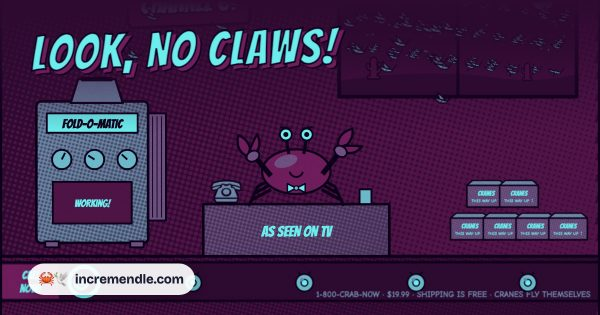
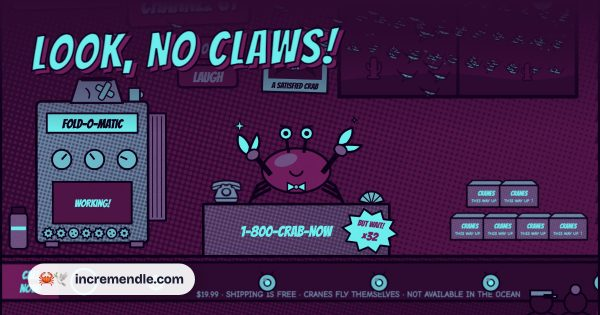
Look, No Claws!: draw every purchase on the set

diff --git a/public/look-no-claws/index.html b/public/look-no-claws/index.html
@@ -10,7 +10,7 @@
 <meta property="og:title" content="Look, No Claws!">
 <meta property="og:description" content="3 a.m. on Channel 61. A homesick crab herds runaway paper cranes on the beat of the gamelan band, live, to win the station van and drive to the sea.">
 <meta property="og:url" content="https://incremendle.com/look-no-claws/">
-<meta property="og:image" content="https://incremendle.com/look-no-claws/og.png?v=46c6cc61">
+<meta property="og:image" content="https://incremendle.com/look-no-claws/og.png?v=a449f050">
 <meta property="og:image:width" content="1200">
 <meta property="og:image:height" content="630">
 <meta property="og:image:alt" content="Look, No Claws!: 3 a.m. on Channel 61. A homesick crab herds runaway paper cranes on the beat of the gamelan band, live, to win the station van and drive to the sea.">
@@ -379,19 +379,26 @@ function drawBackground() {
   inked(x, C.c7, () => x.rect(-4, LANE_Y - 26, W + 8, 52), 3);
   x.fillStyle = C.c5; x.fillRect(0, LANE_Y - 23, 76, 46);
   x.font = '400 16px Bangers, Impact, sans-serif'; x.fillStyle = C.c1; x.textAlign = 'center'; x.fillText('CALL', 38, LANE_Y - 3); x.fillText('NOW!', 38, LANE_Y + 15);
-  x.font = '700 11px Comic Neue, sans-serif'; x.fillStyle = C.c3; x.textAlign = 'right'; x.fillText('1-800-CRAB-NOW · $19.99 · SHIPPING IS FREE · CRANES FLY THEMSELVES', W - 10, LANE_Y + 21);
+  x.font = '700 11px Comic Neue, sans-serif'; x.fillStyle = C.c3; x.textAlign = 'right'; x.fillText('$19.99 · SHIPPING IS FREE · CRANES FLY THEMSELVES · NOT AVAILABLE IN THE OCEAN', W - 104, LANE_Y + 21);
   return c;
 }
 
 // Pinchworth: berry shell, eyes on stalks, a bow tie, two claws. `snap` 0..1 closes the right claw.
-function drawCrab(x, snap, t, look = 0) {
+function drawCrab(x, snap, t, look = 0, mo = false) {
   x.save(); x.lineJoin = 'round';
+  const dress = !mo;
   // Legs.
   for (const s of [-1, 1]) for (let i = 0; i < 3; i++) S_(x, () => { x.moveTo(s * 34, -18 + i * 7); x.lineTo(s * (52 + i * 4), -8 + i * 9); x.lineTo(s * (58 + i * 3), 6 + i * 6); }, 4);
   // Shell.
   inked(x, C.c5, () => x.ellipse(0, -28, 46, 30, 0, 0, Math.PI * 2));
   dots(x, () => x.ellipse(0, -28, 46, 30, 0, 0, Math.PI * 2), C.ink, 0.45, 4);
   x.fillStyle = C.c4; P(x, () => x.ellipse(-14, -42, 16, 8, -0.3, 0, Math.PI * 2));
+  // The Unbreakable Streak: a champion's sash.
+  if (dress && gift('bigstreak')) {
+    x.save(); x.beginPath(); x.ellipse(0, -28, 46, 30, 0, 0, Math.PI * 2); x.clip();
+    S_(x, () => { x.moveTo(-40, -54); x.lineTo(44, -6); }, 13); x.beginPath(); x.moveTo(-40, -54); x.lineTo(44, -6); x.lineWidth = 8; x.strokeStyle = C.c1; x.stroke();
+    x.restore(); star(x, 20, -20, 7, C.c2);
+  }
   // Bow tie (he's the host).
   inked(x, C.c1, () => { x.moveTo(0, -6); x.lineTo(-12, -12); x.lineTo(-12, 0); x.closePath(); x.moveTo(0, -6); x.lineTo(12, -12); x.lineTo(12, 0); x.closePath(); }, 2);
   inked(x, C.c2, () => x.arc(0, -6, 3, 0, Math.PI * 2), 1.5);
@@ -404,19 +411,40 @@ function drawCrab(x, snap, t, look = 0) {
   // A small smile; homesick eyebrows.
   S_(x, () => { x.arc(0, -30, 9, 0.25, Math.PI - 0.25); }, 2.5);
   S_(x, () => { x.moveTo(-22, -88); x.lineTo(-8, -86); x.moveTo(22, -88); x.lineTo(8, -86); }, 2.5);
+  // Testimonials: it's Pinchworth in a moustache.
+  if (mo) inked(x, C.ink, () => { x.moveTo(0, -24); x.quadraticCurveTo(-10, -32, -22, -20); x.quadraticCurveTo(-12, -22, 0, -18); x.quadraticCurveTo(12, -22, 22, -20); x.quadraticCurveTo(10, -32, 0, -24); }, 1);
+  // Metronome Hat: a tiny metronome on a tiny hat, ticking with the band.
+  if (dress && gift('hat')) {
+    inked(x, C.c7, () => x.ellipse(0, -58, 15, 4, 0, 0, Math.PI * 2), 2);
+    inked(x, C.c7, () => x.rect(-8, -72, 16, 13), 2);
+    inked(x, C.c2, () => { x.moveTo(-6, -72); x.lineTo(-3, -90); x.lineTo(3, -90); x.lineTo(6, -72); x.closePath(); }, 2);
+    const sw = Math.sin(beatNow() * Math.PI) * 0.6;
+    S_(x, () => { x.moveTo(0, -73); x.lineTo(Math.sin(sw) * 16, -73 - Math.cos(sw) * 16); }, 2);
+  }
   // Claws: the left one raised, holding a cue card; the right one does the clicking.
-  claw(x, -62, -56, -0.5, 0.15, t);
-  claw(x, 64, -62, 0.6, snap, t);
+  const shell = dress && gift('goldclaws') ? C.c1 : C.c5;
+  claw(x, -62, -56, -0.5, 0.15, t, shell);
+  claw(x, 64, -62, 0.6, snap, t, shell);
+  // Claw Polish: the more coats, the bigger the twinkle.
+  if (dress && (S.lv.polish || shell !== C.c5)) {
+    const lv = S.lv.polish + (shell !== C.c5 ? 6 : 0), tw = 0.6 + 0.4 * Math.sin(t * 5);
+    star(x, 78, -96, (3 + Math.min(lv, 16) * 0.5) * tw, C.c1);
+    if (lv >= 8) star(x, -76, -88, (2 + Math.min(lv, 16) * 0.3) * (1.6 - tw), C.c1);
+  }
   x.restore();
 }
-function claw(x, cx, cy, rot, snap, t) {
+// A four-point twinkle.
+function star(x, cx, cy, r, color) {
+  inked(x, color, () => { for (let i = 0; i < 8; i++) { const a = i / 8 * Math.PI * 2, q = i % 2 ? r * 0.3 : r; x.lineTo(cx + Math.cos(a) * q, cy + Math.sin(a) * q); } x.closePath(); }, 1.5);
+}
+function claw(x, cx, cy, rot, snap, t, shell = C.c5) {
   x.save();
   S_(x, () => { x.moveTo(cx * 0.55, cy * 0.4); x.lineTo(cx * 0.85, cy * 0.8); x.lineTo(cx, cy); }, 7);
   x.translate(cx, cy); x.rotate(rot);
   const open = 0.55 * (1 - snap);
-  inked(x, C.c5, () => { x.moveTo(-6, 6); x.quadraticCurveTo(-18, -10, -4, -26); x.quadraticCurveTo(4, -18, 2, -4); x.closePath(); });
+  inked(x, shell, () => { x.moveTo(-6, 6); x.quadraticCurveTo(-18, -10, -4, -26); x.quadraticCurveTo(4, -18, 2, -4); x.closePath(); });
   x.save(); x.rotate(open);
-  inked(x, C.c5, () => { x.moveTo(4, 6); x.quadraticCurveTo(18, -6, 10, -22); x.quadraticCurveTo(4, -12, 0, -2); x.closePath(); });
+  inked(x, shell, () => { x.moveTo(4, 6); x.quadraticCurveTo(18, -6, 10, -22); x.quadraticCurveTo(4, -12, 0, -2); x.closePath(); });
   x.restore();
   inked(x, C.c4, () => x.ellipse(0, 8, 9, 7, 0, 0, Math.PI * 2), 2.5);
   x.restore();
@@ -446,9 +474,172 @@ function drawMachine(x, t, open = 0) {
   }
   inked(x, C.c6, () => x.rect(mx + 22, my + 132, w - 64, 56), 2.5);
   x.fillStyle = S.up.maint ? C.c1 : C.c4; x.font = '400 14px Bangers, Impact, sans-serif'; x.fillText(S.up.maint ? 'WORKING!' : 'OUT OF ORDER', mx + (w - 20) / 2, my + 166);
+  // Spare Parts: a row of gears along the bottom, every third one a biscuit.
+  for (let i = 0; i < S.lv.parts; i++) {
+    const gx = mx + 16 + i * 17, gy = my + h - 13;
+    if (i % 3 === 2) { inked(x, C.c2, () => x.arc(gx, gy, 7, 0, Math.PI * 2), 2); x.fillStyle = C.ink; for (const [a, b] of [[-2, -2], [3, 0], [-1, 3]]) P(x, () => x.arc(gx + a, gy + b, 1.1, 0, Math.PI * 2)); continue; }
+    const r0 = (S.up.maint ? t * 2 : 0) * (i % 2 ? 1 : -1);
+    inked(x, C.c2, () => { for (let j = 0; j < 16; j++) { const a = r0 + j / 16 * Math.PI * 2, q = j % 2 ? 5.5 : 8; x.lineTo(gx + Math.cos(a) * q, gy + Math.sin(a) * q); } x.closePath(); }, 2);
+    x.fillStyle = C.ink; P(x, () => x.arc(gx, gy, 2, 0, Math.PI * 2));
+  }
+  // Kick the Machine: a dent in the chute, and a plaster on it.
+  if (S.up.kick) {
+    S_(x, () => { x.moveTo(mx + 66, my + 6); x.quadraticCurveTo(mx + 74, my + 12, mx + 70, my + 20); }, 2);
+    x.save(); x.translate(mx + 92, my + 10); x.rotate(0.5);
+    for (const r of [0, Math.PI / 2]) { x.save(); x.rotate(r); inked(x, C.c2, () => x.roundRect(-13, -4, 26, 8, 3), 1.8); x.restore(); }
+    x.restore();
+  }
   // Little feet.
   for (const fx of [mx + 12, mx + w - 44]) inked(x, C.c4, () => x.rect(fx, my + h - 2, 18, 8), 2.5);
   x.restore();
+}
+// Everything else the shop sells, drawn where it went. back: the wall; machine: on and around
+// the Fold-O-Matic; desk: on the desk; front: in front of the set.
+const gift = g => E.DEMO_IDS.some(d => S.gifts[d] === g);
+const cue = { oooh: -9, laugh: -9 };
+function drawProps(x, layer) {
+  const t = clock, up = S.up;
+  const label = (text, px, py, size, color = C.ink, font = 'Bangers, Impact, sans-serif') => { x.font = `400 ${size}px ${font}`; x.textAlign = 'center'; x.fillStyle = color; x.fillText(text, px, py); };
+  if (layer === 'back') {
+    // Act Now!: the clock that's been counting down from ten minutes for three hours.
+    if (up.actnow) {
+      x.save(); x.translate(86, 46); x.rotate(-0.03);
+      inked(x, C.c5, () => x.roundRect(-74, -26, 148, 52, 6), 3);
+      label('ACT NOW! OFFER ENDS IN', 0, -7, 13, C.c2);
+      const s = 600 - Math.floor(t % 47);
+      label(`${Math.floor(s / 60)}:${String(s % 60).padStart(2, '0')}`, 0, 18, 24, C.c1);
+      x.restore();
+    }
+    // Warranty Card, pinned up: signed W.
+    if (up.warranty) {
+      x.save(); x.translate(48, 120); x.rotate(0.07);
+      inked(x, C.c1, () => x.rect(-32, -22, 64, 44), 2.5);
+      label('WARRANTY', 0, -6, 12);
+      label('Signed, W.', 0, 13, 13, C.c5, 'Comic Neue, sans-serif');
+      x.fillStyle = C.c5; P(x, () => x.arc(0, -22, 3.5, 0, Math.PI * 2));
+      x.restore();
+    }
+    // Night Shift Overtime: a punch clock, with Wanda's card in it.
+    if (gift('overtime')) {
+      x.save(); x.translate(124, 126);
+      inked(x, C.c2, () => x.rect(-9, -38, 18, 22), 2); label('W', 0, -24, 11);
+      inked(x, C.c3, () => x.roundRect(-20, -22, 40, 46, 4), 2.5);
+      inked(x, C.c1, () => x.arc(0, -2, 11, 0, Math.PI * 2), 2);
+      S_(x, () => { x.moveTo(0, -2); x.lineTo(Math.cos(t / 6) * 7, -2 + Math.sin(t / 6) * 7); x.moveTo(0, -2); x.lineTo(Math.cos(t) * 9, -2 + Math.sin(t) * 9); }, 1.5);
+      label('OT', 0, 20, 9, C.c1);
+      x.restore();
+    }
+    // Studio Audience and Laugh Track: cue lights that light up when they go off.
+    const cueLight = (y, text, lit) => {
+      x.save(); x.translate(276, y);
+      inked(x, lit ? C.c1 : C.c6, () => x.roundRect(-40, -15, 80, 30, 6), 3);
+      label(text, 0, 8, 19, lit ? C.c5 : C.c3);
+      x.restore();
+    };
+    if (up.audience) cueLight(124, 'OOOH', t - cue.oooh < 0.4);
+    if (up.laugh) cueLight(162, 'LAUGH', t - cue.laugh < 0.3);
+    // Testimonials: a framed photo of a satisfied crab.
+    if (up.testimony) {
+      x.save(); x.translate(394, 142); x.rotate(0.03);
+      inked(x, C.c2, () => x.rect(-44, -42, 88, 84), 3);
+      x.fillStyle = C.c7; x.fillRect(-36, -34, 72, 58);
+      x.save(); x.beginPath(); x.rect(-36, -34, 72, 58); x.clip(); x.translate(0, 12); x.scale(0.42, 0.42); drawCrab(x, 0.2, 0, 0, true); x.restore();
+      label('A SATISFIED CRAB', 0, 37, 11);
+      x.restore();
+    }
+    // The Big Spotlight.
+    if (gift('spotlight')) {
+      x.save(); x.globalAlpha = 0.17; x.fillStyle = C.c1;
+      x.beginPath(); x.moveTo(372, 0); x.lineTo(418, 0); x.lineTo(500, 334); x.lineTo(290, 334); x.fill();
+      x.restore();
+      inked(x, C.c3, () => x.roundRect(374, -8, 42, 18, 4), 3);
+    }
+  } else if (layer === 'machine') {
+    const { x: mx, y: my, w, h } = MACH;
+    // Operators Standing By: a phone on the machine, its cord running down the chute.
+    if (up.operators && ART.phone) {
+      S_(x, () => { x.moveTo(mx + 26, my + 18); x.bezierCurveTo(mx + 30, my + 34, mx + 60, my + 2, mx + 72, my - 4); }, 2.5);
+      x.drawImage(ART.phone, mx + 4, my - 4, 34, 34);
+    }
+    // Second Coffee Mug: left by the curtain. Now and then it empties itself.
+    if (up.mug) {
+      const ph = t % 14, mgx = mx + w - 46, mgy = my + 6;
+      if (ph > 10 && ph < 11.6) {
+        x.save(); x.lineCap = 'round';
+        x.beginPath(); x.moveTo(mx + w - 8, my + 46); x.quadraticCurveTo(mx + w + 4, my + 4, mgx + 16, mgy + 4);
+        x.lineWidth = 8; x.strokeStyle = C.ink; x.stroke(); x.lineWidth = 4.5; x.strokeStyle = C.c4; x.stroke(); x.restore();
+      }
+      inked(x, C.c2, () => x.arc(mgx + 15, mgy + 9, 5, -Math.PI / 2, Math.PI / 2), 2);
+      inked(x, C.c2, () => x.rect(mgx, mgy, 15, 18), 2.5);
+      if (ph < 10.4 && !reduced) for (const o of [4, 10]) S_(x, () => { x.moveTo(mgx + o, mgy - 3); x.quadraticCurveTo(mgx + o + 4 * Math.sin(t * 2 + o), mgy - 9, mgx + o, mgy - 16); }, 1.5);
+    }
+    // Tune the Machine: it hums along now, in tune.
+    if (up.hum && up.maint) for (let i = 0; i < 3; i++) {
+      const p = (t * 0.35 + i / 3) % 1, nx = mx + 150 + Math.sin(p * 6 + i) * 8, ny = my - 12 - p * 70;
+      x.save(); x.globalAlpha = 1 - p; x.font = '700 22px Comic Neue, sans-serif'; x.textAlign = 'center';
+      x.lineWidth = 4; x.strokeStyle = C.ink; x.strokeText('♪', nx, ny); x.fillStyle = C.c2; x.fillText('♪', nx, ny); x.restore();
+    }
+    // Wanda's Thermos, by the machine's foot.
+    if (gift('thermos')) {
+      inked(x, C.c4, () => x.roundRect(10, my + h - 40, 24, 48, 5), 2.5);
+      inked(x, C.c7, () => x.rect(13, my + h - 48, 18, 9), 2);
+      x.fillStyle = C.c1; x.fillRect(12, my + h - 22, 20, 5);
+    }
+    // Wanda's Radio, by the curtain, antenna up.
+    if (gift('radio')) {
+      S_(x, () => { x.moveTo(mx + w + 26, my + h - 10); x.lineTo(mx + w + 40, my + h - 40); }, 2);
+      inked(x, C.c3, () => x.roundRect(mx + w + 6, my + h - 12, 40, 24, 4), 2.5);
+      inked(x, C.c7, () => x.arc(mx + w + 18, my + h, 6, 0, Math.PI * 2), 2);
+      x.fillStyle = C.c1; x.fillRect(mx + w + 28, my + h - 6, 13, 4);
+    }
+    // Conveyor Belt: overhead, from the chute to the boxes.
+    if (gift('conveyor')) {
+      x.save(); x.lineJoin = 'round'; x.lineCap = 'round';
+      x.beginPath(); x.moveTo(mx + 104, my - 4); x.lineTo(mx + 124, my + 32); x.lineTo(586, my + 32); x.lineTo(606, 296);
+      x.lineWidth = 11; x.strokeStyle = C.ink; x.stroke(); x.lineWidth = 6; x.strokeStyle = C.c3; x.stroke();
+      if (!reduced) { x.setLineDash([3, 9]); x.lineDashOffset = -t * 40; }
+      x.lineWidth = 6; x.strokeStyle = C.c6; x.stroke(); x.setLineDash([]);
+      const fr = Math.floor(t * 4);
+      for (let i = 0; i < 6; i++) { const p = ((reduced ? 0 : t * 0.1) + i / 6) % 1; x.drawImage(ART.crane[(i + fr) % 2], mx + 124 + p * (586 - mx - 124) - 11, my + 14, 22, 16); }
+      x.restore();
+    }
+  } else if (layer === 'desk') {
+    // Seashell Phone, on the end of the desk.
+    if (up.seashell) {
+      x.save(); x.translate(DESK.x + DESK.w - 24, DESK.y);
+      inked(x, C.c2, () => { x.moveTo(0, 0); x.arc(0, 0, 17, Math.PI * 1.08, Math.PI * 1.92); x.closePath(); }, 2.5);
+      for (let i = 1; i < 5; i++) { const a = Math.PI * (1.08 + i * 0.168); S_(x, () => { x.moveTo(0, 0); x.lineTo(Math.cos(a) * 17, Math.sin(a) * 17); }, 1.5); }
+      x.restore();
+    }
+    // But Wait, There's More!: a sticker on the desk that keeps doubling.
+    if (S.lv.wait) {
+      x.save(); x.translate(DESK.x + DESK.w - 26, DESK.y + 36); x.rotate(0.12);
+      inked(x, C.c1, () => { for (let i = 0; i < 20; i++) { const a = i / 20 * Math.PI * 2, r = i % 2 ? 22 : 30; x.lineTo(Math.cos(a) * r * 1.25, Math.sin(a) * r); } x.closePath(); }, 2.5);
+      label('BUT WAIT!', 0, -5, 11, C.c5); label(`×${E.fmtShort(2 ** S.lv.wait)}`, 0, 13, 16, C.c5);
+      x.restore();
+    }
+  } else if (layer === 'front') {
+    // Not Available in Stores: stamped across the boxes.
+    if (up.stores) {
+      x.save(); x.translate(692, 384); x.rotate(-0.06);
+      inked(x, C.c5, () => x.rect(-98, -13, 196, 26), 3);
+      label('NOT AVAILABLE IN STORES', 0, 7, 17, C.c1);
+      x.restore();
+    }
+  } else if (layer === 'audience') {
+    // Studio Audience: the security guard and his mum, in the front row. Perfect taps get an "oooh".
+    if (up.audience) {
+      const lift = t - cue.oooh < 0.4 ? 4 : 0;
+      for (const [hx, cap] of [[724, true], [770, false]]) {
+        x.save(); x.translate(hx, 466 - lift);
+        inked(x, C.c7, () => x.ellipse(0, 30, 26, 18, 0, 0, Math.PI * 2), 2.5);
+        inked(x, C.c7, () => x.arc(0, 0, 15, 0, Math.PI * 2), 2.5);
+        if (cap) inked(x, C.c3, () => { x.rect(-15, -16, 30, 8); x.rect(4, -10, 17, 4); }, 2.5);
+        else inked(x, C.c4, () => x.arc(0, -17, 7, 0, Math.PI * 2), 2.5);
+        x.restore();
+      }
+    }
+  }
 }
 // Wanda from Maintenance: an octopus in a hairnet, eight arms, a crane in most of them.
 function drawWanda(x, t) {
@@ -495,14 +686,17 @@ function render() {
   x.save(); x.translate((rnd() - 0.5) * sh, (rnd() - 0.5) * sh);
   x.drawImage(bg, 0, 0, W, H);
   drawSky(x);
+  drawProps(x, 'back');
   drawMachine(x, clock);
+  drawProps(x, 'machine');
   // Desk, phone, the boxes.
   inked(x, C.c4, () => x.rect(DESK.x, DESK.y, DESK.w, DESK.h), 3.5);
   dots(x, () => x.rect(DESK.x, DESK.y, DESK.w, DESK.h), C.ink, 0.4, 5);
-  x.fillStyle = C.c1; x.font = '400 20px Bangers, Impact, sans-serif'; x.textAlign = 'center'; x.fillText('AS SEEN ON TV', DESK.x + DESK.w / 2, DESK.y + 44);
+  x.fillStyle = C.c1; x.font = '400 20px Bangers, Impact, sans-serif'; x.textAlign = 'center'; x.fillText(S.up.tollfree ? '1-800-CRAB-NOW' : 'ONLY $19.99', DESK.x + DESK.w / 2 - 14, DESK.y + 44);
   if (ART.phone) x.drawImage(ART.phone, DESK.x + 8, DESK.y - 40, 46, 46);
-  if (S.up.mug || S.ended) { inked(x, C.c2, () => x.rect(DESK.x + DESK.w - 40, DESK.y - 20, 16, 20), 2.5); }
+  drawProps(x, 'desk');
   drawBoxes(x);
+  drawProps(x, 'front');
   if (reveal || S.ended) drawRevealed(x);
   // Pinchworth.
   x.save(); x.translate(CRAB.x, CRAB.y + (reduced ? 0 : Math.sin(clock * Math.PI * 2 / E.BEAT / 2) * 1.5)); drawCrab(x, snap, clock, look); x.restore();
@@ -511,6 +705,7 @@ function render() {
   for (const c of flock) x.drawImage((c.dark ? ART.craneDark : ART.crane)[(fr + (c.ph > 3 ? 1 : 0)) % 2], c.x - 17, c.y - 12, 34, 24);
   for (const c of flying) x.drawImage(ART.crane[fr], c.x - 14, c.y - 10, 28, 20);
   drawLane(x);
+  drawProps(x, 'audience');
   for (const b of bursts) drawBurst(x, b);
   for (const f of floats) {
     x.save(); x.globalAlpha = Math.max(0, 1 - f.t / 1.2); x.font = `400 ${f.big ? 26 : 19}px Bangers, Impact, sans-serif`; x.textAlign = 'center';
@@ -536,6 +731,7 @@ function drawBoxes(x) {
     const row = i < 4 ? 0 : i < 7 ? 1 : i < 9 ? 2 : 3, col = i < 4 ? i : i < 7 ? i - 4 : i - 7;
     const bx = BOX.x + col * 44 + row * 22 - 10, by = BOX.y - 56 - row * 44;
     x.drawImage(ART.box, bx, by, 56, 40);
+    if (S.up.sticker) { star(x, bx + 44, by + 10, 9, C.c1); x.fillStyle = C.ink; x.font = '400 7px Bangers, Impact, sans-serif'; x.textAlign = 'center'; x.fillText('TV', bx + 44, by + 13); }
   }
 }
 function drawRevealed(x) {
@@ -621,6 +817,7 @@ function tap() {
   const n = E.herd(S, grade);
   if (grade === 'miss') { sfx.miss(); if (was >= 4) float(CRAB.x + 70, CRAB.y - 110, 'off the beat', C.c3); return; }
   if (grade === 'perfect') sfx.perfect(S.streak); else sfx.good(S.streak);
+  cue.laugh = clock; if (grade === 'perfect') cue.oooh = clock;
   if (S.streak % 8 === 0) { sfx.flock(S.streak); burst(['CLICK!', 'SNAP!', 'FWOOSH!', 'OOOH!'][(S.streak / 8 - 1) % 4], CRAB.x + 110, CRAB.y - 150, C.c1, 24); }
   else if (grade === 'perfect' && rnd() < 0.25) burst('CLICK!', CRAB.x + 90, CRAB.y - 120, C.c1, 18);
   herdVisual(n, grade);
@@ -708,7 +905,7 @@ function giftFx(g) {
 function pickGift(id, g) {
   if (!E.pickGift(S, id, g)) return;
   $('over').hidden = true; $('over').innerHTML = '';
-  sfx.gift();
+  sfx.gift(); landed(g);
   const G = E.GIFTS[g];
   say('FREE GIFT', `${G.name}. ${G.side === 'machine' ? 'Wanda says thank you from inside the machine. Her voice is a little muffled.' : 'Pinchworth holds it up to the camera. The camera holds very still.'}`);
   save(); hud(); renderShop(); cv.focus({ preventScroll: true });
@@ -1008,7 +1205,21 @@ function doBuy(id) {
   if (L) say('ORDER', `${L.name} (${S.lv[id]}). ${L.desc}`);
   else say(id === 'maint' ? 'MAINTENANCE' : 'ORDER', E.UP[id].joke);
   if (id === 'maint') refreshMusic();
+  landed(id);
   save(); renderShop(); hud();
+}
+const LANDS = {
+  kick: ['OW!', 140, 150], mug: ['MUG!', 180, 150], warranty: ['W.', 48, 96], seashell: ['HI!', 496, 300], hum: ['HMM!', 196, 120],
+  tollfree: ['RING!', 380, 380], audience: ['OOOH!', 276, 124], laugh: ['HA HA!', 276, 162], actnow: ['NOW!', 86, 46],
+  testimony: ['WOW!', 394, 100], operators: ['RING!', 70, 150], sticker: ['TV!', 680, 270], stores: ['EXCLUSIVE!', 692, 350],
+  polish: ['SHINE!', 470, 210], wait: ['MORE!', 494, 360], parts: ['CLUNK!', 120, 350],
+  goldclaws: ['BLING!', 470, 220], thermos: ['SOUP!', 40, 330], hat: ['TICK!', 395, 200], overtime: ['OT!', 124, 90],
+  bigstreak: ['CHAMP!', 395, 260], conveyor: ['WHIRR!', 380, 190], spotlight: ['TA-DA!', 395, 60], radio: ['♪♪', 250, 330],
+};
+function landed(id) {
+  const l = LANDS[id]; if (!l) return;
+  burst(l[0], l[1], l[2], C.c1, 20);
+  if (id === 'kick') shake = 1;
 }
 
 // ---------- Input ----------
